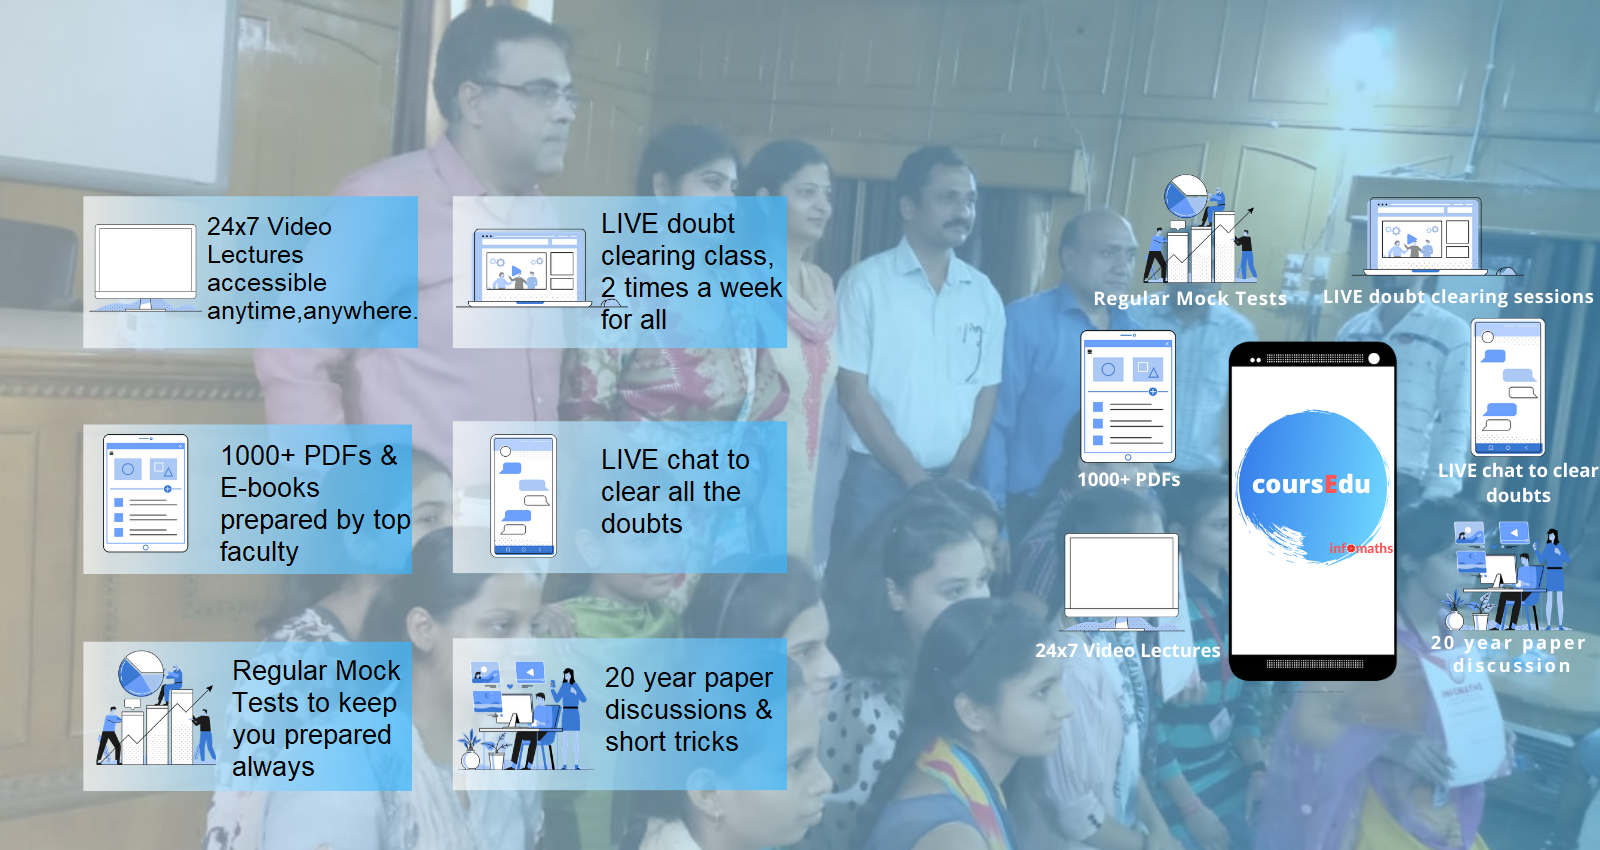
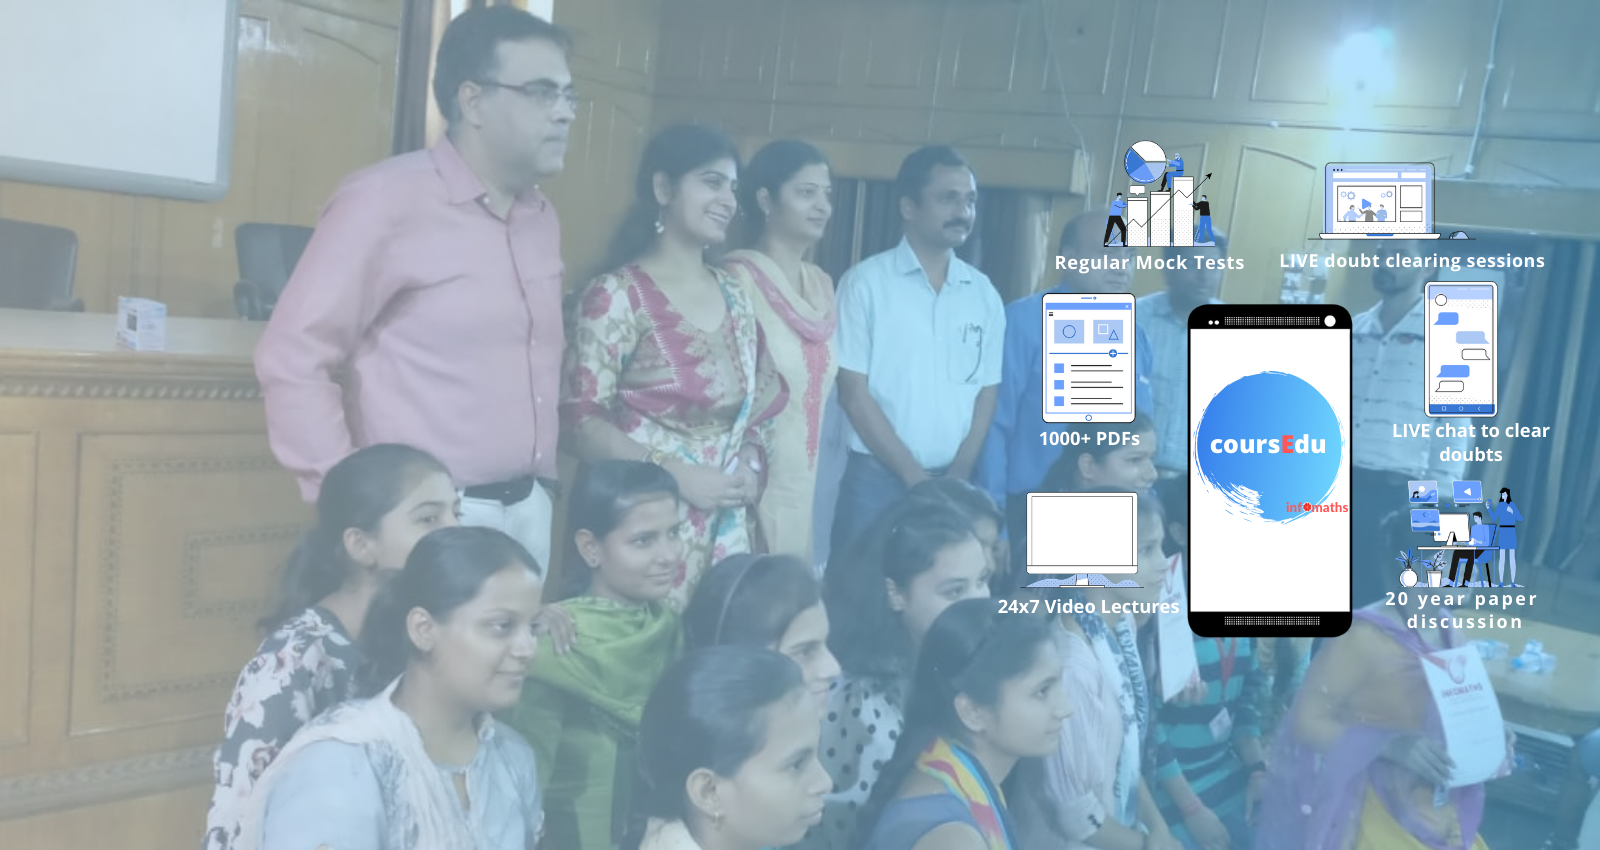
added mst

diff --git a/index.html b/index.html
@@ -113,9 +113,8 @@
 
                         <div class="col-lg-5 col-md-12">
                             <div class="hero-video">
-                                <img class="site-owner" src="assets/img/main.png" alt="">
+                              <!--  <img class="site-owner" src="assets/img/main.png" alt="">
                               
-                              <!--  
                                   <a href="https://www.youtube.com/watch?time_continue=5&v=0fp60iHV7Rk" class="video-play-btn popup-video">
                                     <i class="icofont-play-alt-3"></i>
                                     <div id="spinnerbtn"></div>
@@ -320,7 +319,7 @@
                 </div>
                 <div data-wow-delay="0.2s" data-wow-duration="1.2s" class="why-choose-img wow fadeInRight">
                     <!-- Why choose image -->
-                    <img src="assets/img/teacher-image.png" alt="#">
+                   <!-- <img src="assets/img/teacher-image.png" alt="#"> -->
                 </div>
             </div>
         </div>

diff --git a/assets/css/style.css b/assets/css/style.css
@@ -69,7 +69,7 @@ ul li {
 .d-table {
   width: 100%;
   height: 100%;
-  background: rgba(33, 151, 206, 0.8);
+  background: rgba(0, 0, 0, 0.2);
 }
 .d-table-cell {
   vertical-align: middle;
